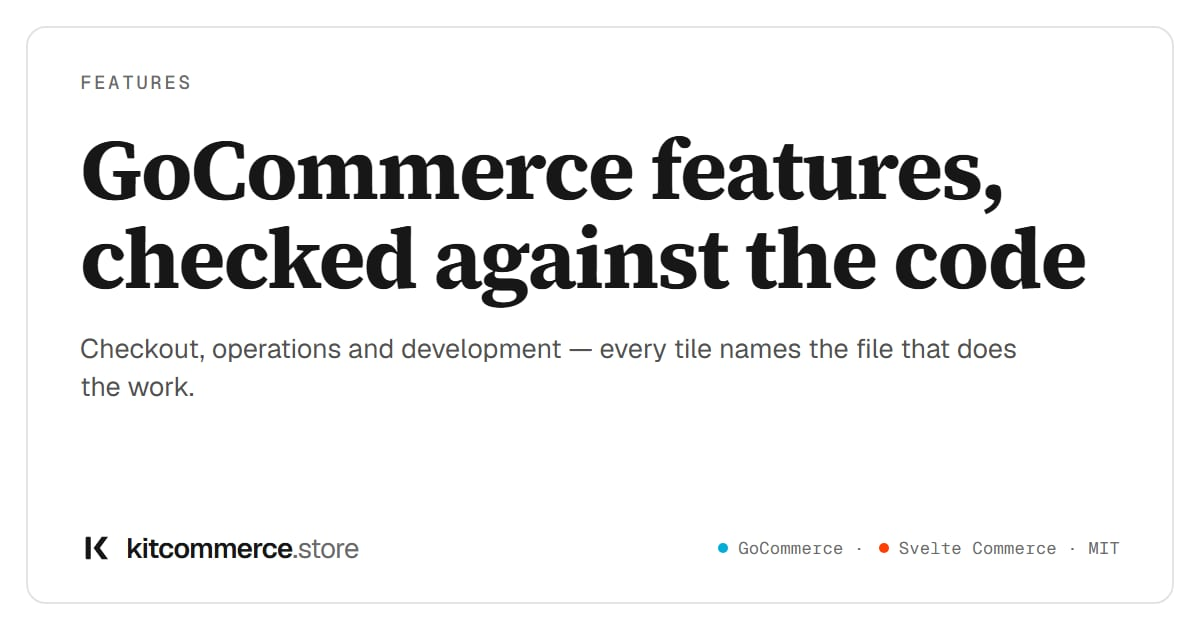
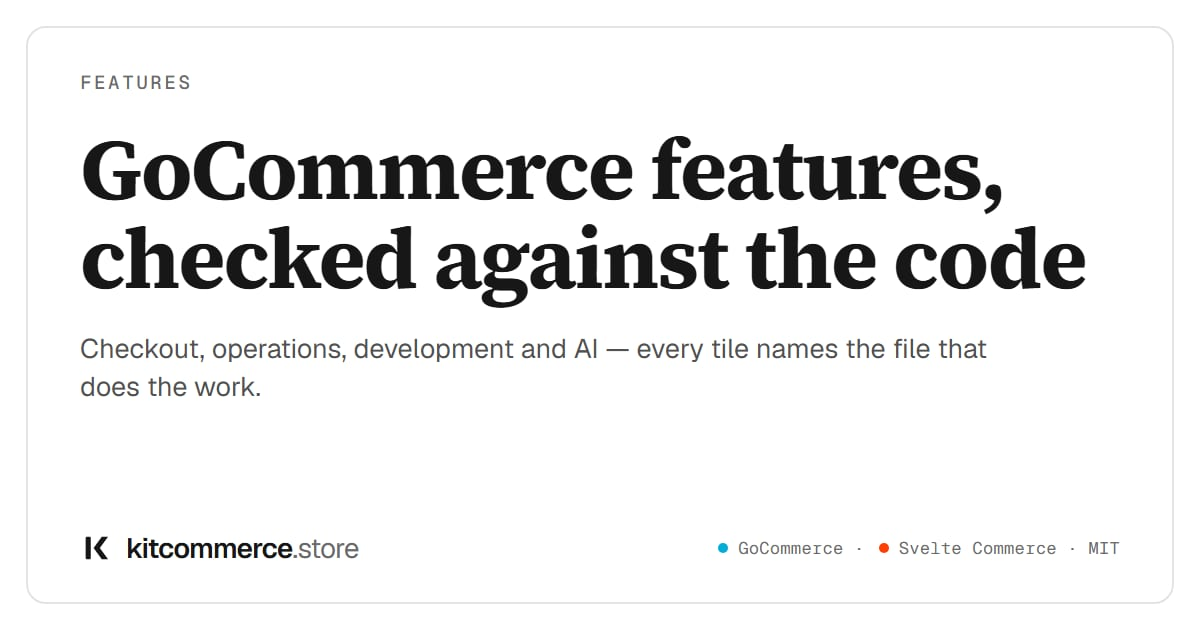
A features page for AI: the gateway, agent keys and MCP
/features/ai/ lists, tile by tile and each with the file or route that
does the work, what GoCommerce on main (c891952) does with models and
agents: the AI gateway's key, cap, records, data-sharing switches and
model ladder; the approval queue; agent keys (reads only, shown once,
expiring, rate limited, cut to their maker's rights, contact details
masked, named in the audit trail); and the MCP server. The job queue
and the approval queue are marked partial and say what is missing.

Its "not yet" list names what docs/ai-b2b describes and the code does
not do — agents that change things, a WhatsApp inbox, an order desk,
semantic search, agent memory, procurement tools, other providers —
and that a store on admin.kitcommerce.store cannot switch either module
on, because the Docker stack installs neither.

The features hub orders the new page last and lays four cards out in
pairs rather than leaving a gap in a row of three; its fine print says
which pages were checked at which commit. "Questions about AI" keeps
its capitals.

Changed region(s): [[0.2775, 0.5429, 0.8633, 0.573], [0.0617, 0.6032, 0.2158, 0.6333]]

diff --git a/src/styles/global.css b/src/styles/global.css
@@ -1829,6 +1829,9 @@ html:has(dialog.lightbox[open]) { overflow: hidden; }
 .vs-card-summary { font-size: .875rem; line-height: 1.55; color: var(--ink-2); }
 @media (max-width: 960px) { .vs-grid { grid-template-columns: 1fr 1fr; } }
 @media (max-width: 560px) { .vs-grid { grid-template-columns: 1fr; } }
+/* An even number of cards reads as pairs, rather than a row with a gap in it. */
+.vs-grid.vs-grid-2 { grid-template-columns: 1fr 1fr; }
+@media (max-width: 560px) { .vs-grid.vs-grid-2 { grid-template-columns: 1fr; } }
 
 /* A comparison page's own parts. */
 .vs-meaning { margin-top: 18px; }

diff --git a/src/data/features/_schema.ts b/src/data/features/_schema.ts
@@ -5,7 +5,9 @@
  * that does the work in `source`. `status: "partial"` tiles say what is
  * missing inside `text`. Anything the code does not do goes in `notYet`,
  * never in a tile. Source of truth for the first three pages: a tile-by-tile
- * audit of GoCommerce at commit 1498c68 (21 September 2026).
+ * audit of GoCommerce at commit 1498c68 (21 September 2026). The AI page, the
+ * Security group on development and the counts corrected since were checked
+ * at commit c891952 (21 October 2026).
  */
 export interface FeaturePage {
   slug: string
